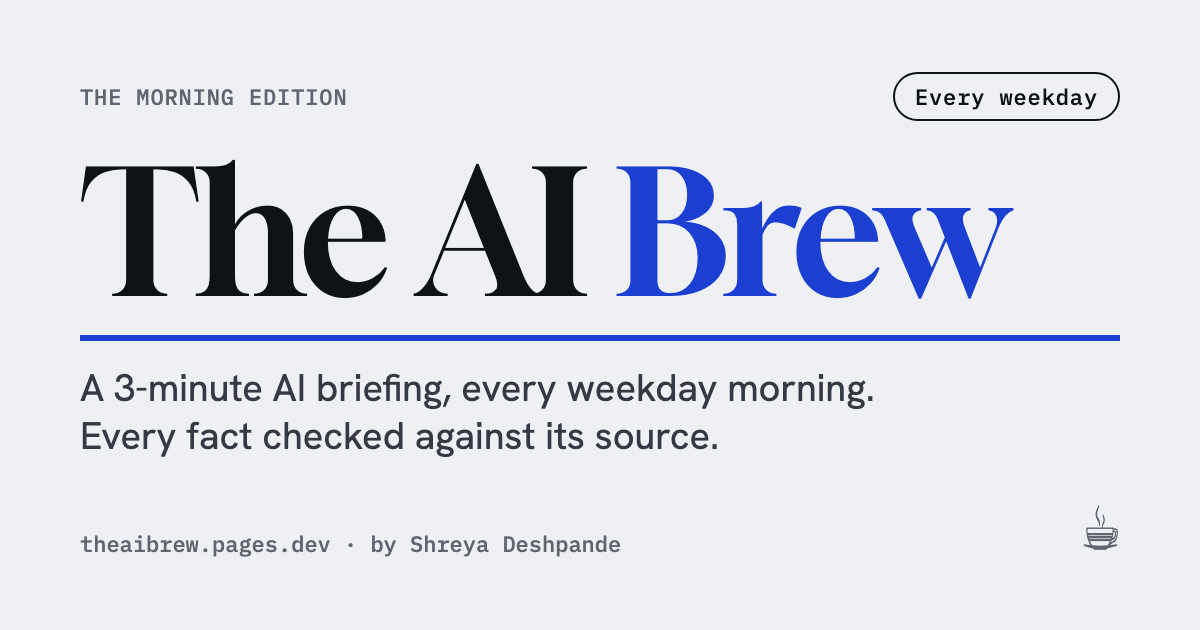
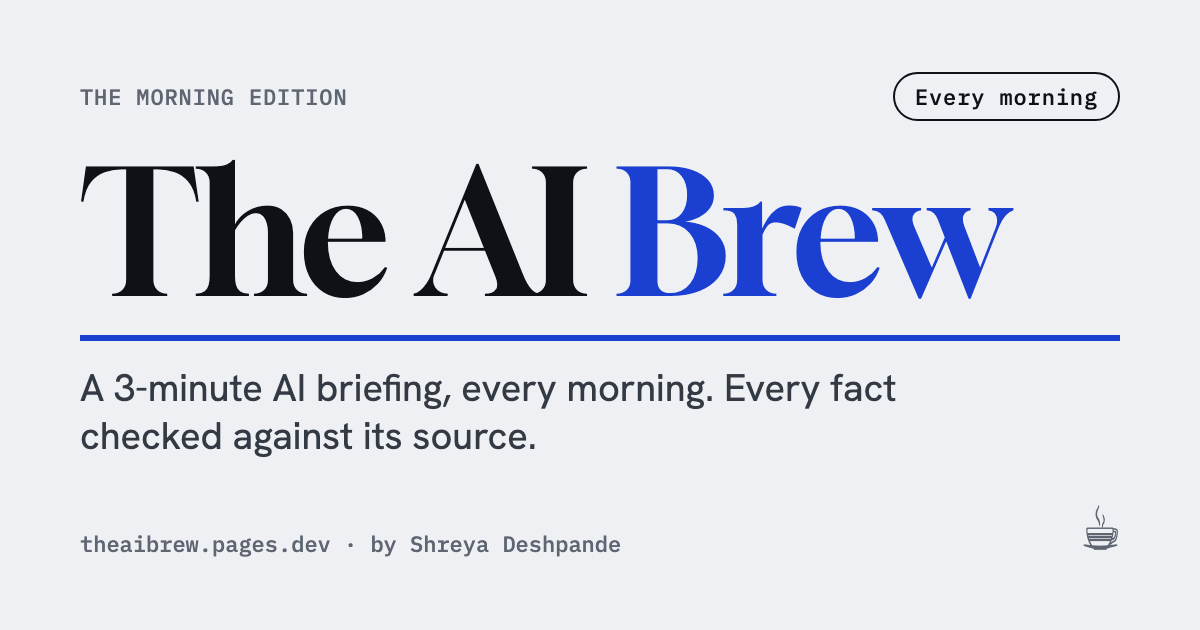
Publish every day, not only weekdays
- Daily job runs 7 days a week (12:00 UTC); slow days already widen to 2 days of news
- Site, README, design doc, and share image say 'every morning'

Changed region(s): [[0.0617, 0.6032, 0.7708, 0.7238], [0.8325, 0.1206, 0.925, 0.181]]

diff --git a/README.md b/README.md
@@ -2,7 +2,7 @@
 
 [![Tests](https://github.com/shreyad1/ai-brew/actions/workflows/tests.yml/badge.svg)](https://github.com/shreyad1/ai-brew/actions/workflows/tests.yml)
 
-**A 3-minute AI briefing, written every weekday morning by an AI agent, with every fact checked against its source.**
+**A 3-minute AI briefing, written every morning by an AI agent, with every fact checked against its source.**
 
 **[theaibrew.pages.dev](https://theaibrew.pages.dev)** · Built by [Shreya Deshpande](https://www.linkedin.com/in/shreya-deshpande-data-business-analyst/)
 
@@ -10,7 +10,7 @@
 
 ## What it does
 
-Every weekday at 7 AM Central, with no human in the loop until review:
+Every morning at 6–7 AM Central, with no human in the loop until review:
 
 1. **Gathers** fresh stories from 19 RSS feeds: TechCrunch, The Verge, Ars Technica, MIT Technology Review, The New Stack, company blogs, and AI newsletters on Substack.
 2. **Cleans** them: drops sponsored posts, filters non-AI stories, and merges the same news reported by several outlets.
@@ -34,7 +34,7 @@ Every weekday at 7 AM Central, with no human in the loop until review:
             ├─► MCP server ──►│ digest agent│──► checks.py ──► issue JSON ──► web app (Cloudflare Pages)
             │   (6 tools)     │  (Gemini)   │    numbers,                     email (Buttondown, soon)
             │                 └─────────────┘    names, quotes
- GitHub Actions: runs it every weekday, commits the issue, redeploys the app
+ GitHub Actions: runs it every day, commits the issue, redeploys the app
 ```
 
 **The guardrails are the core of the project.** The model only ever sees story IDs, titles, and summaries, never links. It returns JSON that refers to stories by ID, and the code, not the model, attaches every link, source name, and date. `checks.py` then verifies that each number, capitalized name, and quoted phrase in the model's text appears in that story's source.

diff --git a/docs/DESIGN.md b/docs/DESIGN.md
@@ -4,7 +4,7 @@ A daily AI news briefing written by an LLM agent. This document covers how it wo
 
 ## Goal and the one hard constraint
 
-**Goal:** a 3-minute, plain-English AI briefing every weekday, readable by non-engineers, with a section for engineers.
+**Goal:** a 3-minute, plain-English AI briefing every day, readable by non-engineers, with a section for engineers.
 
 **Constraint:** zero invented content. Every fact, number, name, quote, date, and link must trace back to a real source item. A summarizer that is fluent but occasionally wrong is worse than no summarizer, because readers can't tell which sentences to trust.
 
